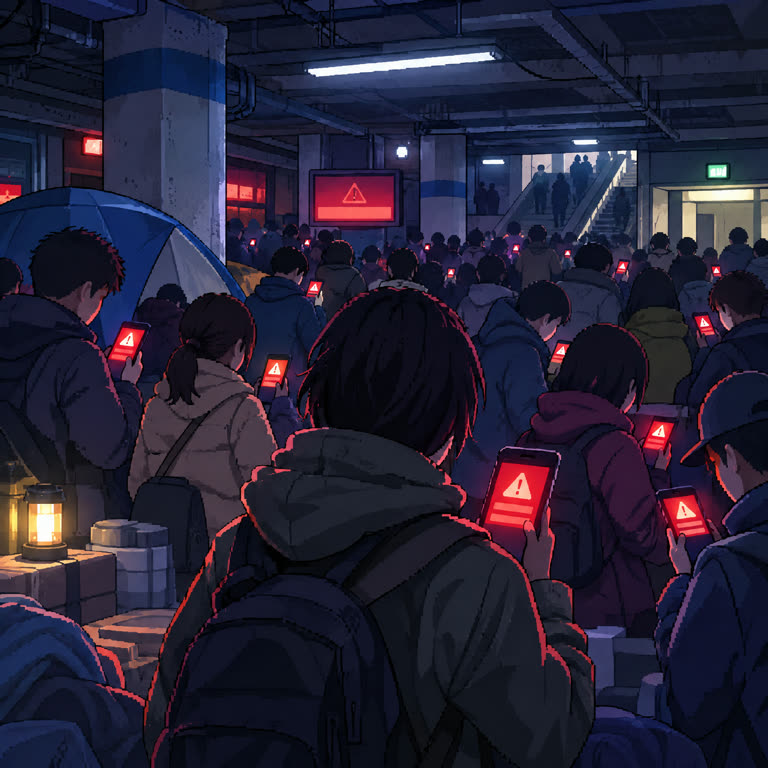
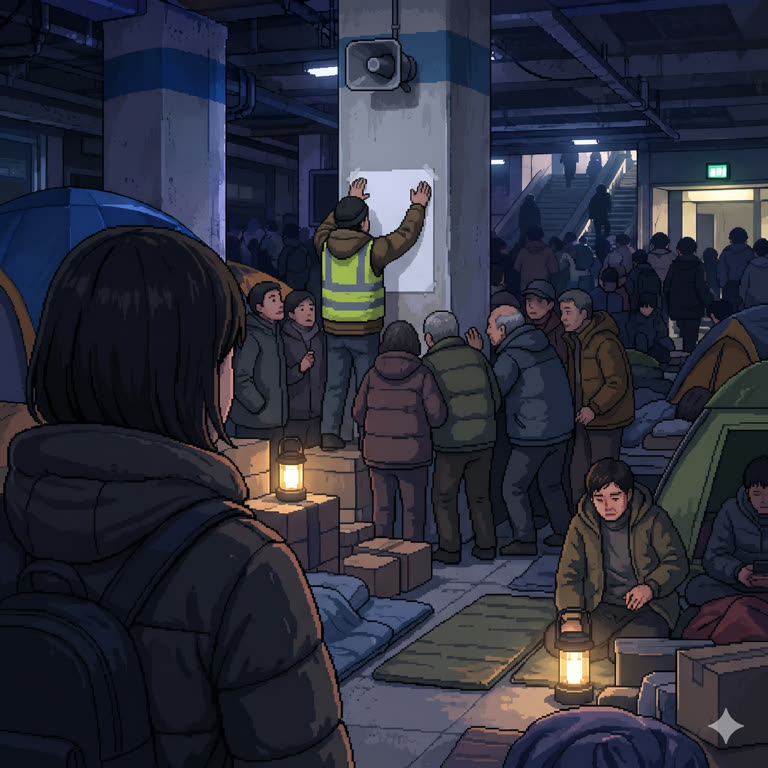
v0.99.27: 집결 안내 장면 그림 교체

diff --git a/index.html b/index.html
@@ -3,7 +3,7 @@
 <head>
 <meta charset="utf-8">
 <meta name="viewport" content="width=device-width,initial-scale=1,maximum-scale=1,user-scalable=no,viewport-fit=cover">
-<meta http-equiv="Content-Security-Policy" content="default-src 'self'; script-src 'sha256-lWseHqZH5DCo3Fs8Ga6dKJOEHWEqNM7CG72n7yLR1JM='; style-src 'unsafe-inline' https://fonts.googleapis.com; font-src https://fonts.gstatic.com; img-src 'self' data: blob:; connect-src https://script.google.com/macros/s/AKfycbxFNz24Nn0Qtf-psUV4wNHGdWn5c7VgjdgjzTr3EuoVSjVLqBZp1ci6v0XR8S1Ar300RA/exec https://script.googleusercontent.com; object-src 'none'; base-uri 'none'; form-action 'none'">
+<meta http-equiv="Content-Security-Policy" content="default-src 'self'; script-src 'sha256-uS1v3PfXV6SvLRBkfuQEvh2/dy3DOkDNkajDFbs5xPA='; style-src 'unsafe-inline' https://fonts.googleapis.com; font-src https://fonts.gstatic.com; img-src 'self' data: blob:; connect-src https://script.google.com/macros/s/AKfycbxFNz24Nn0Qtf-psUV4wNHGdWn5c7VgjdgjzTr3EuoVSjVLqBZp1ci6v0XR8S1Ar300RA/exec https://script.googleusercontent.com; object-src 'none'; base-uri 'none'; form-action 'none'">
 <meta name="description" content="전쟁이 나면, 나는 살아남을까? 정부 비상시 국민행동요령을 바탕으로 만든 가상 생존 테스트">
 <meta property="og:title" content="생존 테스트">
 <meta property="og:description" content="전쟁이 나면, 나는 살아남을까?">
@@ -1150,7 +1150,7 @@ function applyMode() {
     if (L.seconds === 30) PACK_SECONDS = hardMode ? 20 : 30;
   }
 }
-const APP_VERSION = "v0.99.26";   // 정식 전 시험판. 배포할 때마다 올림
+const APP_VERSION = "v0.99.27";   // 정식 전 시험판. 배포할 때마다 올림
 const ARTIFACT_URL = location.origin + location.pathname;
 const SAFE_KG = 6;            // 이 무게를 넘으면 이동할 때마다 체력이 더 깎임
 const MAX_KG = 15;            // 가방끈이 버틸 수 있는 최대 무게
